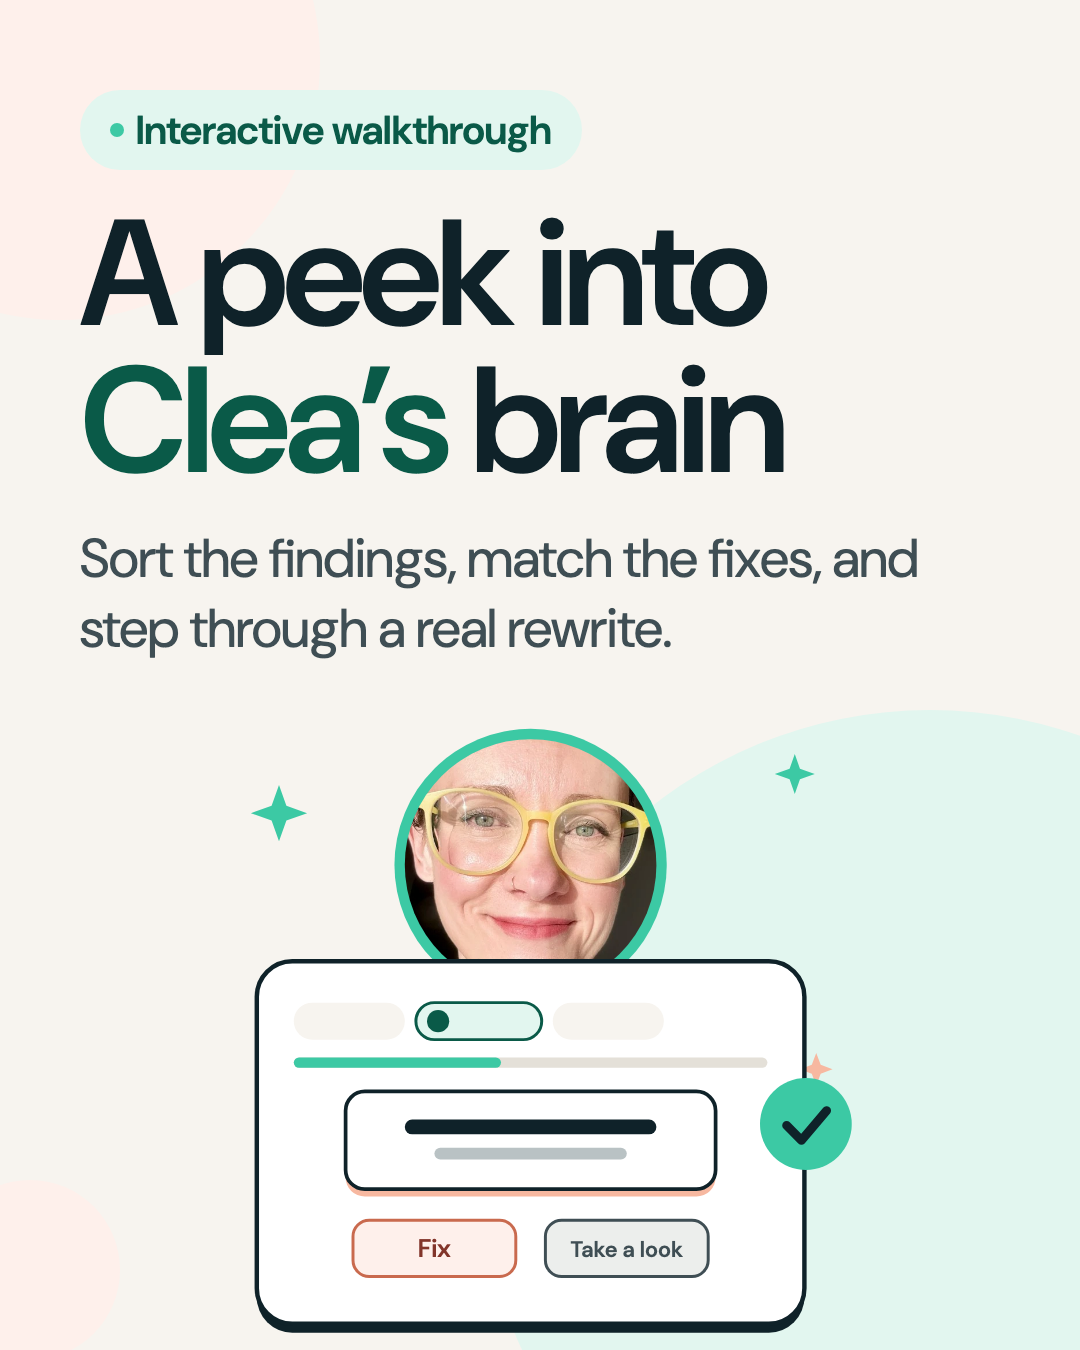
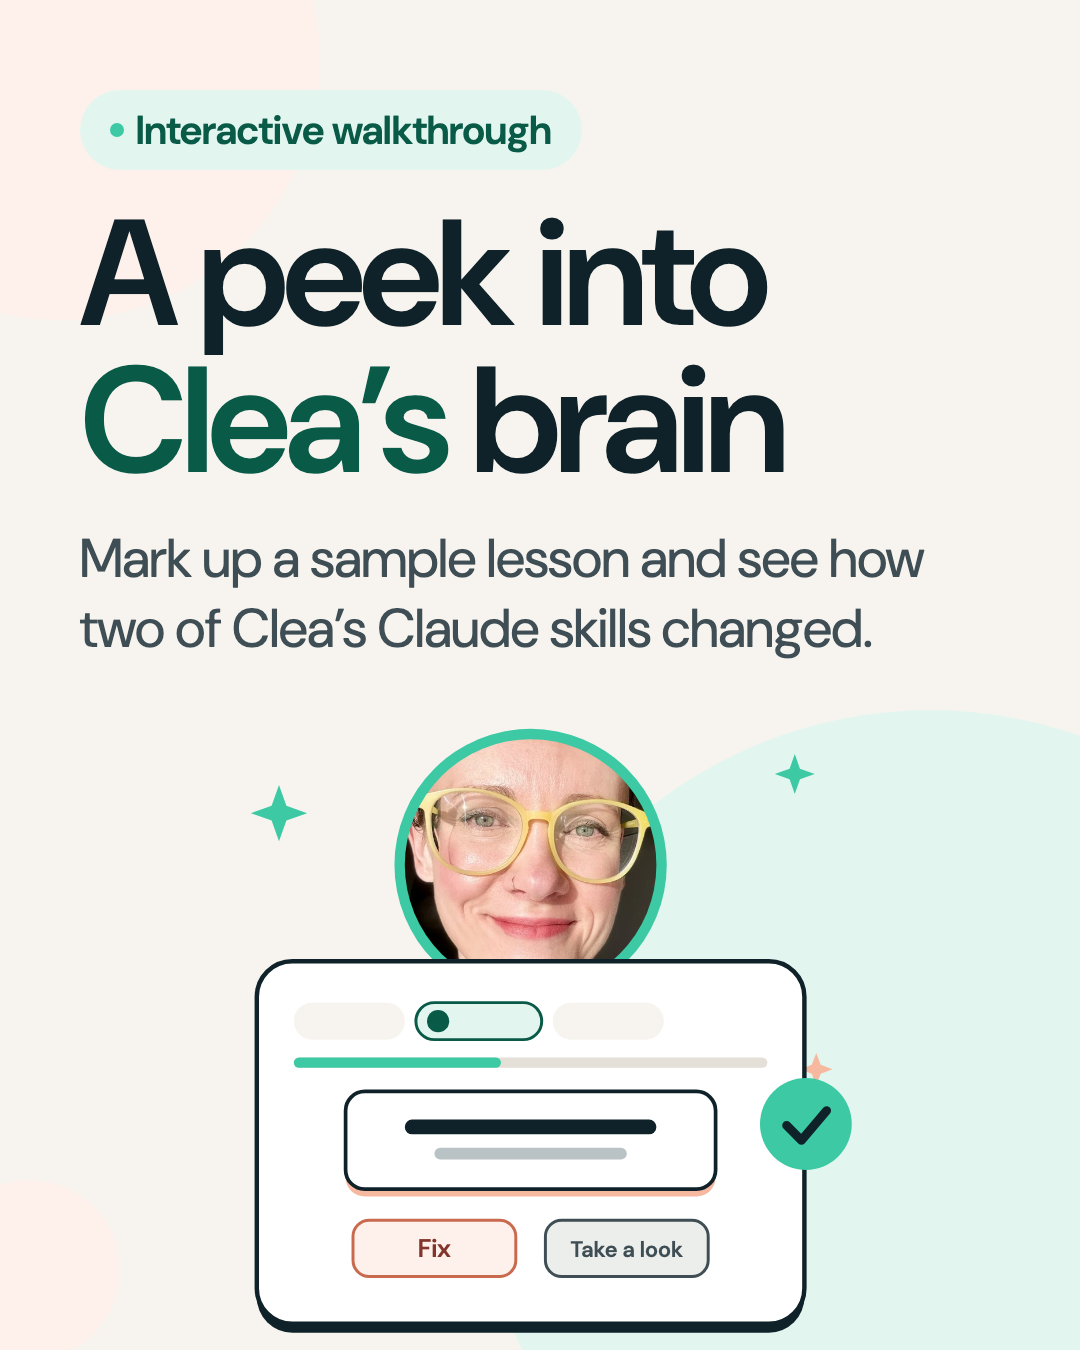
Walkthrough: final copy pass, plain September checks, new cover subtitle

Changed region(s): [[0.0611, 0.4044, 0.8556, 0.4978]]

diff --git a/docs/walkthrough/app.js b/docs/walkthrough/app.js
@@ -1,10 +1,10 @@
 const DEFAULTS = {
   title: 'A peek into Clea\'s brain',
-  intro: '<p>Clea is a learning experience designer. At her last job she built Claude skills for customer education and taught herself Claude Code.</p><p>She was recently laid off. Since then she\'s been building things for fun and sharing them with the L&amp;D community, including at the Learning Rejects Conference.</p><p>This walkthrough covers two of her skills: what didn\'t work at first, and what she changed. Along the way you\'ll mark up a real lesson draft, sort what lesson-eval found, and match problems to their fixes.</p>',
+  intro: '<p>Clea is a learning experience designer. At her last job she built Claude skills for customer education and taught herself Claude Code.</p><p>She was recently laid off. Since then she\'s been building things for fun and sharing them with the L&amp;D community, including at the Learning Rejects Conference.</p><p>This walkthrough covers two of her skills: what didn\'t work at first, and what she changed. Along the way you\'ll mark up a sample lesson draft, sort what lesson-eval found, and match problems to their fixes.</p>',
   source: 'Vibe coded in Mighty Studio with Claude Code, October 2026.',
-  coverImage: 'https://clea-mahoney.github.io/clea-skills/walkthrough/cover.png',
+  coverImage: 'https://clea-mahoney.github.io/clea-skills/walkthrough/cover.png?v=2',
   coverAlt: 'Start the walkthrough: Clea peeking over a card from the sort game.',
-  coverImageMobile: 'https://clea-mahoney.github.io/clea-skills/walkthrough/cover-mobile.png',
+  coverImageMobile: 'https://clea-mahoney.github.io/clea-skills/walkthrough/cover-mobile.png?v=2',
   draftHeading: 'Read the draft',
   draftIntro: 'Lesson-eval is a Claude skill Clea built to check a lesson draft before a person reviews it. In September it ran 15 checks. This is a draft it checked, for a made-up product called Flowstack. Tap any sentence you\'d change to see what lesson-eval said about it.',
   draftHits: [
@@ -14,7 +14,7 @@ const DEFAULTS = {
     { phrase: 'isn\'t a delay, it\'s a safety net', check: '11', note: '"Isn\'t X, it\'s Y" phrasing. Say what an approval step does.' },
     { phrase: '—', check: '7', note: 'An em dash.' },
     { phrase: 'One bad run. Hundreds of disabled accounts. No undo.', check: '11', note: 'Short dramatic fragments. One plain sentence says it better.' },
-    { phrase: 'It\'s important to note', check: '7', note: 'Filler. A sentence that needs a label to be important isn\'t.' },
+    { phrase: 'It\'s important to note', check: '7', note: 'Filler. If it\'s important, the sentence can just say it.' },
     { phrase: 'leverage', check: '14', note: 'Inflated words: "leverage" and "seamless."' },
     { phrase: 'pick the appropriate group', check: '6', note: 'Which group is appropriate? The learner can\'t tell.' },
     { phrase: '[Screenshot: add screenshot here]', check: '8', note: 'The placeholder doesn\'t say what to capture, and it\'s at the end of the section instead of at its step.' },
@@ -26,32 +26,32 @@ const DEFAULTS = {
   ],
   draftRevealLabel: 'Show everything lesson-eval flagged',
   checkersHeading: 'Lesson-eval in September and today',
-  checkersStory: '<p>In September, lesson-eval had 15 checks and graded each draft in a loop. The writer fixed what failed, then lesson-eval checked the whole draft again, until everything passed.</p><p>Then Clea moved the writing rules into the instructions Claude drafts from, so drafts came out cleaner. Today lesson-eval runs once, with 4 checks.</p>',
+  checkersStory: '<p>Claude writes each lesson draft from a set of instructions. In September, lesson-eval had 15 checks and graded each draft in a loop. The writer fixed what failed, then lesson-eval checked the whole draft again, until everything passed.</p><p>Then Clea moved the writing rules into those instructions, so drafts came out cleaner. Today lesson-eval runs once, with 4 checks.</p>',
   beforeTitle: 'September: 15 checks, 9 failed',
   beforeMeta: 'Tap a check to see what it found in the draft you just read.',
   checks: [
-    { name: 'Job behavior is nameable in one sentence', result: 'pass', finding: '' },
-    { name: 'One lesson, one job behavior', result: 'pass', finding: '' },
-    { name: 'The hook earns attention before asking for it', result: 'fail', finding: 'The first two sentences announce the course ("In this course, you\'ll learn...") instead of placing the learner in a situation.' },
-    { name: 'Context, then concept, then application', result: 'pass', finding: '' },
-    { name: 'At least one judgment moment; audience fit', result: 'pass', finding: '' },
-    { name: 'Every step is followable without inference', result: 'fail', finding: '"pick the appropriate group" requires the learner to already know which group is appropriate.' },
-    { name: 'No em dashes, filler, or meta-commentary', result: 'fail', finding: 'Em dash in "Workflows run fast — which is great..."; signposting in "Let\'s dive in," "It\'s important to note," and "Now that you\'ve added the step."' },
-    { name: 'Media placeholders are specific and placed correctly', result: 'fail', finding: '"[Screenshot: add screenshot here]" isn\'t executable and sits at the end of the section instead of at the step it supports.' },
-    { name: 'Ends with a specific "Next up"', result: 'fail', finding: 'No "Next up" or "Next steps" section; the lesson ends on a generic line.' },
-    { name: 'Sentence case headings, Oxford commas', result: 'fail', finding: 'The H1 "Add An Approval Step Before Risky Actions" is title case.' },
-    { name: 'No decorative contrast or staccato drama', result: 'fail', finding: 'Cluster of contrast ("isn\'t a delay, it\'s a safety net," "isn\'t optional, it\'s how you know") and staccato drama ("One bad run. Hundreds of disabled accounts. No undo.").' },
-    { name: 'No undefined jargon carried as a key term', result: 'pass', finding: '' },
-    { name: 'No instructional-design language aimed at the learner', result: 'pass', finding: '' },
-    { name: 'Plain words, real doers, no borrowed authority', result: 'fail', finding: 'Inflated and promotional language: "leverage," "seamless," "Utilize," and the trailing ", ensuring the right person always sees the request."' },
-    { name: 'Voice match against the examples', result: 'fail', finding: 'Two of the three longest paragraphs ("Why approval steps matter" and the closing of "Test it") would need rewriting to sit beside the "Better" examples.' }
+    { name: 'You can say in one sentence what the learner will do', result: 'pass', finding: '' },
+    { name: 'The lesson teaches one task', result: 'pass', finding: '' },
+    { name: 'The opening starts with a situation the learner recognizes', result: 'fail', finding: 'The first two sentences describe the course ("In this course, you\'ll learn...") instead of starting with a situation.' },
+    { name: 'It explains why, then what, then how', result: 'pass', finding: '' },
+    { name: 'The learner makes at least one decision, and the lesson fits its audience', result: 'pass', finding: '' },
+    { name: 'Every step can be followed without guessing', result: 'fail', finding: '"Pick the appropriate group" assumes the learner knows which group that is.' },
+    { name: 'No em dashes or filler', result: 'fail', finding: 'An em dash in "Workflows run fast — which is great...", and filler in "Let\'s dive in," "It\'s important to note," and "Now that you\'ve added the step."' },
+    { name: 'Screenshot notes say what to capture and sit at the right step', result: 'fail', finding: '"[Screenshot: add screenshot here]" doesn\'t say what to capture, and it sits at the end of the section instead of at its step.' },
+    { name: 'It ends with a Next up section', result: 'fail', finding: 'There\'s no Next up section. The lesson ends on a generic line.' },
+    { name: 'Headings in sentence case, with Oxford commas', result: 'fail', finding: 'The title "Add An Approval Step Before Risky Actions" is in title case.' },
+    { name: 'No contrast for effect or dramatic fragments', result: 'fail', finding: 'Contrast for effect ("isn\'t a delay, it\'s a safety net," "isn\'t optional, it\'s how you know") and dramatic fragments ("One bad run. Hundreds of disabled accounts. No undo.").' },
+    { name: 'Key terms are explained', result: 'pass', finding: '' },
+    { name: 'No teaching jargon aimed at the learner', result: 'pass', finding: '' },
+    { name: 'Plain words, and it\'s clear who does what', result: 'fail', finding: 'Inflated words ("leverage," "seamless," "utilize") and the tacked-on ", ensuring the right person always sees the request."' },
+    { name: 'It sounds like the example lessons lesson-eval compares against', result: 'fail', finding: 'Two of the longest paragraphs, under "Why approval steps matter" and at the end of "Test it," don\'t sound like the examples.' }
   ],
   afterTitle: 'Today: 4 checks',
   afterChecks: 'A clear point\nSpecific screenshot and video notes, at the step they support\nAn ending that points to what\'s next\nWriting that sounds like a person teaching',
   afterMeta: 'Each finding gets a label, <strong>Fix</strong> or <strong>Take a look</strong>, and it skips anything a person already approved, like an em dash they chose to keep.',
   afterTeaser: 'On the same draft it found 6 problems. Next, you guess how it labeled them.',
   sortHeading: 'Fix or take a look?',
-  sortIntro: 'Today\'s version of lesson-eval found 6 problems in the same draft and gave each one a label. Pick the label you think it gave. <strong>Fix</strong> means it has to change before the lesson goes live. <strong>Take a look</strong> means the writer decides.',
+  sortIntro: 'For each problem today\'s lesson-eval found, pick the label you think it gave. <strong>Fix</strong> means it has to change before the lesson goes live. <strong>Take a look</strong> means the writer decides.',
   flags: [
     { text: 'Screenshot placeholder is vague and in the wrong spot', answer: 'fix', why: 'Whoever makes the screenshot won\'t know what to capture, and it sits at the end of the section instead of at its step.' },
     { text: 'Opens by repeating the course overview', answer: 'fix', why: 'The learner already read the course overview. Repeating it delays the lesson.' },
@@ -70,9 +70,9 @@ const DEFAULTS = {
     { side: 'before', kind: 'look', phrase: 'Add An Approval Step Before Risky Actions', note: 'Title-case heading.' },
     { side: 'before', kind: 'fix', phrase: 'In this course, you\'ll learn what approval steps are, why they matter, and how to add them to your workflows. This course is for Flowstack admins who build workflows.', note: 'Repeats the course overview and who the course is for.' },
     { side: 'before', kind: 'look', phrase: 'Let\'s dive in.', note: 'Filler (1 of 3).' },
-    { side: 'before', kind: 'look', phrase: 'An approval step isn\'t a delay, it\'s a safety net.', note: '"Isn\'t X, it\'s Y" phrasing (1 of 3).' },
+    { side: 'before', kind: 'look', phrase: 'An approval step isn\'t a delay, it\'s a safety net.', note: 'Contrast for effect (1 of 3).' },
     { side: 'before', kind: 'look', phrase: '—', note: 'Em dash.' },
-    { side: 'before', kind: 'look', phrase: 'No undo.', note: 'A tacked-on "no X" (2 of 3).' },
+    { side: 'before', kind: 'look', phrase: 'No undo.', note: 'Contrast for effect (2 of 3).' },
     { side: 'before', kind: 'learn', phrase: 'It\'s important to note that approval steps leverage Flowstack\'s seamless notification engine, ensuring the right person always sees the request.', note: 'I stop reading here. This is how the product works, and there\'s nothing for me to do.' },
     { side: 'before', kind: 'look', phrase: 'It\'s important to note', note: 'Filler (2 of 3).' },
     { side: 'before', kind: 'look', phrase: 'leverage', note: 'Inflated word.' },
@@ -81,7 +81,7 @@ const DEFAULTS = {
     { side: 'before', kind: 'learn', phrase: 'within the time limit', note: 'Where do I set the time limit? What\'s the default?' },
     { side: 'before', kind: 'fix', phrase: '[Screenshot: add screenshot here]', note: 'Doesn\'t say what to capture, and it\'s at the end of the section instead of at its step.' },
     { side: 'before', kind: 'look', phrase: 'Now that you\'ve added the step, it\'s time to test it.', note: 'Filler (3 of 3).' },
-    { side: 'before', kind: 'look', phrase: 'Testing isn\'t optional, it\'s how you know the approval works.', note: '"Isn\'t X, it\'s Y" phrasing (3 of 3).' },
+    { side: 'before', kind: 'look', phrase: 'Testing isn\'t optional, it\'s how you know the approval works.', note: 'Contrast for effect (3 of 3).' },
     { side: 'before', kind: 'learn', phrase: 'Utilize a test user to run the workflow.', note: 'Is the test user the account the workflow changes, or the person running it? I don\'t want to disable a real account.' },
     { side: 'before', kind: 'look', phrase: 'Utilize', note: '"Utilize" means "use."' },
     { side: 'before', kind: 'learn', phrase: 'confirm the action ran', note: 'Where do I check that? Run history, or the test user\'s account?' },
@@ -97,11 +97,12 @@ const DEFAULTS = {
     { side: 'after', kind: 'new', phrase: 'Next up', note: 'New Next up section.' }
   ],
   courseHeading: 'Course-dev, July to October',
+  courseIntro: 'Course-dev is a Claude skill Clea built to turn lesson drafts into a course in Skilljar, the LMS her team used. Slide through the months to see how it changed.',
   months: [
     { month: 'July', label: 'By hand', title: 'Copy, paste, and check', body: '<p>Clea\'s team drafted lessons in Notion, turned them into HTML, and pasted each one into Skilljar. Then someone checked every lesson against its draft by hand.</p>', autoSteps: 'Draft in Notion\nTurn into HTML', handSteps: 'Paste each lesson\nCheck against the draft', note: '' },
-    { month: 'August', label: 'The API', title: 'The Skilljar API', body: '<p>Clea used the Skilljar API to relabel 32 of 33 old courses in one run. The API only works from code, though, and she was the only one on the team using it.</p>', autoSteps: '', handSteps: '', note: 'Everyone else kept copying and pasting, so the team had two ways of building courses.' },
+    { month: 'August', label: 'The API', title: 'The Skilljar API', body: '<p>Clea used the Skilljar API to update 32 of 33 old courses in one run. The API only works from code, though, and she was the only one on the team using it.</p>', autoSteps: '', handSteps: '', note: 'Everyone else kept copying and pasting, so the team had two ways of building courses.' },
     { month: 'September', label: 'The MCP', title: 'The Skilljar MCP', body: '<p>The Skilljar MCP is a connector that lets Claude work in Skilljar directly. It works in any Claude app, so the whole team could build and check courses the same way.</p>', autoSteps: '', handSteps: '', note: '' },
-    { month: 'October', label: 'Today', title: 'Claude builds and checks every lesson', body: '<p>A person still picks the reviewer, fills in the few settings the MCP can\'t reach, like lesson length, and decides when the course goes live.</p>', autoSteps: 'Draft in Notion\nBuild in Skilljar\nKeep hidden for review\nCheck against the draft', handSteps: '', note: '' }
+    { month: 'October', label: 'Today', title: 'Claude builds and checks every lesson', body: '<p>A person still picks the reviewer, fills in the few settings the MCP can\'t reach, like how long a lesson takes, and decides when the course goes live.</p>', autoSteps: 'Draft in Notion\nBuild in Skilljar\nHide the course until it\'s reviewed\nCheck against the draft', handSteps: 'Pick the reviewer\nDecide when it goes live', note: '' }
   ],
   matchHeading: 'Match each problem to its fix',
   matchIntro: 'The first course built with the MCP had three problems. Pick the fix for each one.',
@@ -457,7 +458,7 @@ function selectNote(i, scroll) {
 
 /* ---------- course-dev ---------- */
 function renderCourse() {
-  bindText('courseHeading');
+  bindText('courseHeading'); bindText('courseIntro');
   const range = $('monthRange'), ticks = $('ticks'), n = S.months.length;
   range.max = Math.max(0, n - 1); range.value = 0; ticks.innerHTML = '';
   S.months.forEach((m, i) => { const t = el('span', null, str(m.month)); t.onclick = () => { range.value = i; drawMonth(i); }; ticks.appendChild(t); });

diff --git a/docs/walkthrough/index.html b/docs/walkthrough/index.html
@@ -328,6 +328,7 @@ h2,h3,h4,strong,b{font-weight:600}
   <!-- 5 course-dev -->
   <section class="panel" role="tabpanel" id="p-course" aria-labelledby="t-course" hidden>
     <h2 tabindex="-1" data-form-key="courseHeading"></h2>
+    <p class="lead" data-form-key="courseIntro"></p>
     <div class="months">
       <label class="sr" for="monthRange">Month</label>
       <input type="range" id="monthRange" min="0" step="1" value="0">
@@ -362,6 +363,6 @@ h2,h3,h4,strong,b{font-weight:600}
   <div class="sr" aria-live="assertive" id="shout"></div>
 </div>
 
-<script src="app.js?v=2026-10-16m"></script>
+<script src="app.js?v=2026-10-16n"></script>
 </body>
 </html>
